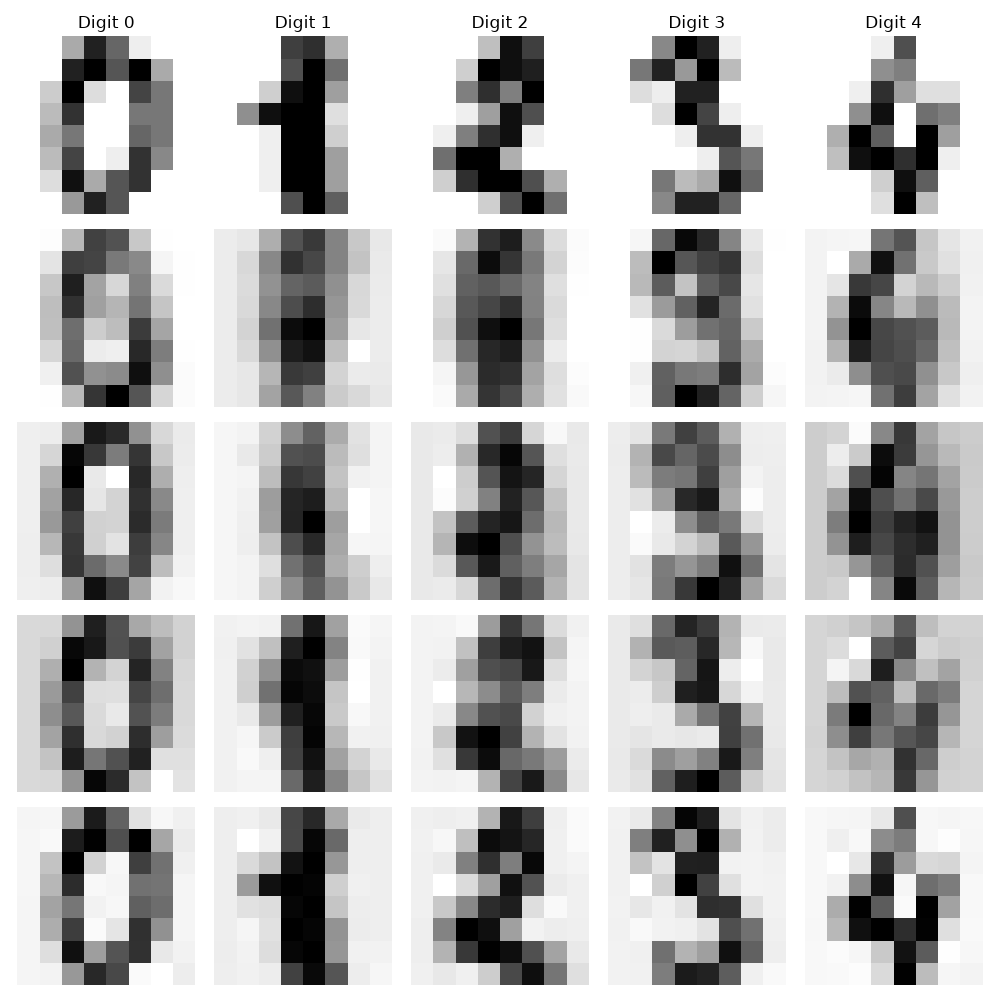
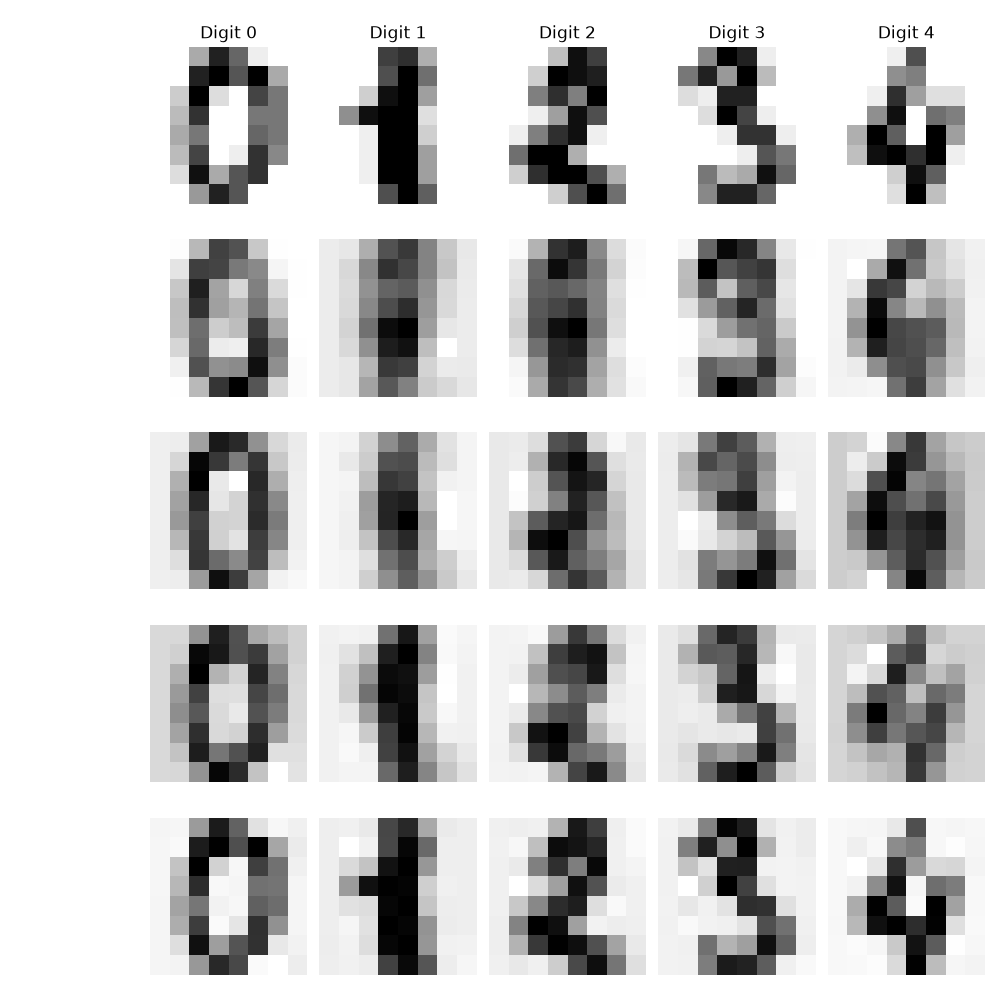
added explonation for tasks in project

diff --git a/assignments_03/project_03.py b/assignments_03/project_03.py
@@ -311,16 +311,15 @@ tree_results_df = pd.DataFrame(tree_results)
 
 print(tree_results_df)
 
-# Choose the best tree depth based on validation performance.
-# Depth=5 provided a good balance between training and test accuracy.
-# Deeper trees improved training accuracy but increased the risk of overfitting.
-
-
-# As tree depth increases, training accuracy continues increasing,
-# but test accuracy eventually stops improving or decreases.
-# This shows that deeper trees can memorize training data and overfit.
-
 best_depth = 5
+
+print(f"\nProduction choice: Decision Tree (max_depth={best_depth})")
+
+# The table above compares both training and test accuracy for each depth.
+# I selected max_depth=5 for production because it provided a good balance
+# between training and test accuracy. Deeper trees achieved higher training
+# accuracy but showed little or no improvement in test accuracy, indicating
+# an increased risk of overfitting.
 
 tree = DecisionTreeClassifier(
     max_depth=best_depth,
@@ -344,7 +343,8 @@ save_result(
     tree_accuracy
 )
 
-print(classification_report(y_test, y_pred_tree))
+print("\nSelected production model: Decision Tree (max_depth=5)")
+
 
 
 # Decision Tree feature importance
@@ -402,15 +402,15 @@ rf_importance = rf_importance.sort_values(
 print("\nTop 10 Random Forest Features:")
 print(rf_importance.head(10))
 
-# The Random Forest top features show which email characteristics contribute
-# most to spam classification. Features related to word frequency, special
-# characters, and capitalization patterns are important because spam emails
-# often use different writing and formatting patterns compared with legitimate
-# emails.
+# Both the Decision Tree and the Random Forest identified many of the same
+# features as important for distinguishing spam from ham, indicating agreement
+# on the strongest predictors. Features related to word frequency, special
+# characters, and capitalization patterns consistently ranked among the most
+# important in both models.
 
-# The Decision Tree and Random Forest feature rankings help identify similar
-# important predictors, although Random Forest provides more stable importance
-# estimates because it combines many trees.
+# The Random Forest importance values are generally more reliable because they
+# are averaged across many decision trees, making them less sensitive to the
+# specific training sample than a single Decision Tree.
 
 
 # Plot top 10 Random Forest feature importances
@@ -789,10 +789,13 @@ rf_pipeline.fit(X_train, y_train)
 
 y_pred_rf = rf_pipeline.predict(X_test)
 
+rf_pipeline_accuracy = accuracy_score(y_test, y_pred_rf)
+
 print("Random Forest Pipeline")
+print("Accuracy:", rf_pipeline_accuracy)
 print(classification_report(y_test, y_pred_rf))
 
-# logistiv regression pipeline
+# logistic regression pipeline
 
 from sklearn.decomposition import PCA
 
@@ -810,28 +813,21 @@ logreg_pipeline.fit(X_train, y_train)
 
 y_pred_log = logreg_pipeline.predict(X_test)
 
+logreg_pipeline_accuracy = accuracy_score(y_test, y_pred_log)
+
 print("Logistic Regression Pipeline")
+print("Accuracy:", logreg_pipeline_accuracy)
 print(classification_report(y_test, y_pred_log))
 
 
-# The pipeline preserves the PCA preprocessing sequence from Task 2:
-# 1. StandardScaler is fitted only on X_train.
-# 2. PCA is fitted on the scaled training data.
-# 3. The same scaler and PCA transformation are applied to X_test.
-# This prevents data leakage and keeps preprocessing consistent.
-# The pipeline preserves the same preprocessing order used during PCA analysis:
-# StandardScaler is fitted on the training data first, then PCA is fitted on
-# the scaled training data. The test data follows the same transformations
-# automatically during prediction.
-# The Random Forest pipeline does not include scaling or PCA because tree-based
-# models do not depend on feature distance and are not sensitive to feature
-# magnitude.
-# The Logistic Regression pipeline includes StandardScaler and PCA because
-# logistic regression benefits from normalized features and PCA can reduce
-# dimensionality while preserving most of the information in the dataset.
-#
-# Pipelines make preprocessing and model training part of one workflow,
-# preventing data leakage and making the model easier to reproduce and deploy.
+# The pipelines use the same preprocessing logic as Task 2.
+# The Random Forest pipeline does not require scaling or PCA because
+# tree-based models are insensitive to feature scaling.
+# The Logistic Regression pipeline applies StandardScaler followed by
+# PCA(n_components=n), using the same number of principal components
+# selected from the training data in Task 2. The pipeline accuracies
+# should closely match the manually implemented models, confirming that
+# the pipeline reproduces the same workflow while preventing data leakage.
 
 # ---What is the practical value of packaging a model---
 

diff --git a/assignments_03/warmup_03.py b/assignments_03/warmup_03.py
@@ -172,25 +172,21 @@ print(classification_report(y_test, y_pred_tree))
 
 # Logistic Regression
 
-from sklearn.multiclass import OneVsRestClassifier
+# Q1
+# Train logistic regression models with different C values
 
 c_values = [0.01, 1.0, 100]
 
 for c in c_values:
-    model = OneVsRestClassifier(
-        LogisticRegression(
-            C=c,
-            max_iter=1000,
-            solver="liblinear"
-        )
+    model = LogisticRegression(
+        C=c,
+        max_iter=1000,
+        random_state=42
     )
 
     model.fit(X_train_scaled, y_train)
 
-    coef_size = sum(
-        np.abs(estimator.coef_).sum()
-        for estimator in model.estimators_
-    )
+    coef_size = np.abs(model.coef_).sum()
 
     print(f"C = {c}: Total coefficient magnitude = {coef_size:.4f}")
 
@@ -305,15 +301,19 @@ fig, axes = plt.subplots(
 )
 
 # ----- Original images -----
-row_labels = ["Original", "n = 2", "n = 5", "n = 15", "n = 40"]
 
 for col in range(5):
     axes[0, col].imshow(images[col], cmap="gray_r")
     axes[0, col].set_title(f"Digit {y_digits[col]}")
     axes[0, col].axis("off")
 
-# Label original row
-axes[0, 0].set_ylabel(row_labels[0], fontsize=12)
+axes[0, 0].set_ylabel(
+    "Original",
+    rotation=0,
+    labelpad=35,
+    fontsize=12,
+    va="center"
+)
 
 # ----- Reconstructed images -----
 
@@ -324,13 +324,16 @@ for row, n in enumerate(component_list, start=1):
         axes[row, col].imshow(reconstruction, cmap="gray_r")
         axes[row, col].axis("off")
 
-    # Label each PCA reconstruction row
     axes[row, 0].set_ylabel(
-        row_labels[row],
-        fontsize=12
+        f"n = {n}",
+        rotation=0,
+        labelpad=35,
+        fontsize=12,
+        va="center"
     )
 
 plt.tight_layout()
+plt.subplots_adjust(left=0.15)
 
 # Save the figure
 plt.savefig(OUTPUT_DIR /"pca_reconstructions.png")